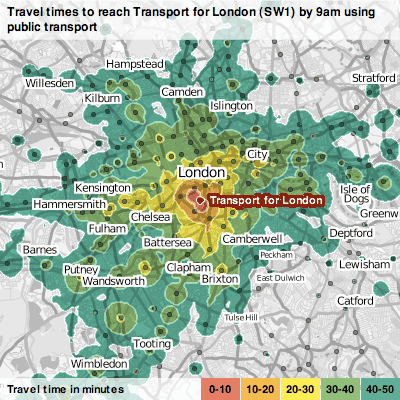
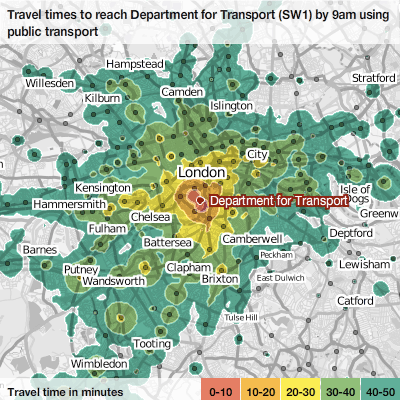
added cycling maps, corrected TfL to DfT, tweaked SWF size

diff --git a/ms/web/2007/more-travel-maps/index.php b/ms/web/2007/more-travel-maps/index.php
@@ -83,7 +83,7 @@ here.
 
 <p>(Remember, each of these maps are useful for only <em>one destination</em>)
 
-<?php interactive_map("sw1p4dr-400-20km/config.xml", "mapintro", 400, 484) ?>
+<?php interactive_map("sw1p4dr-400-20km/config.xml", "mapintro", 400, 482) ?>
 
 <h2><a name="houseprices"></a>House prices</h2>
 
@@ -93,7 +93,7 @@ interactive maps that allow users to set both the maximum time they're willing
 to commute, and the median houseprice they're willing or able to pay. Slide the
 sliders on the following map and all will come clear.
 
-<?php interactive_map("sw1p4dr-640-32km/config.xml", "maphouse1", 640, 745) ?>
+<?php interactive_map("sw1p4dr-640-32km/config.xml", "maphouse1", 640, 726) ?>
 
 <p><a href="morehousing.php">Click here for more such maps of London</a>, with centres at BBC Television Centre and the
 Olympic Stadium Site.

diff --git a/ms/web/2007/more-travel-maps/morehousing.php b/ms/web/2007/more-travel-maps/morehousing.php
@@ -17,7 +17,7 @@ London. Read the <a href="index.php">main page</a> to learn more about these map
 W12 7RJ. Adjust the sliders to see areas within varying travel times to work
 and with varying house prices.
 
-<?php interactive_map("w127rj-800-20km/config.xml", "maphouse2", 800, 909) ?>
+<?php interactive_map("w127rj-800-20km/config.xml", "maphouse2", 800, 886) ?>
 
 <h2>Olympic Stadium Site</h2>
 
@@ -25,7 +25,7 @@ and with varying house prices.
 Stratford at E15 2NQ. Adjust the sliders to see areas within varying travel
 times to work and with varying house prices.
 
-<?php interactive_map("e152nq-800-40km/config.xml", "maphouse3", 800, 909) ?>
+<?php interactive_map("e152nq-800-40km/config.xml", "maphouse3", 800, 886) ?>
 
 <p><a href="index.php">Main page explaining these maps</a>
 
